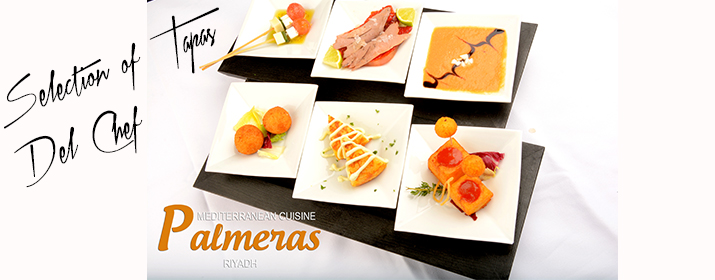
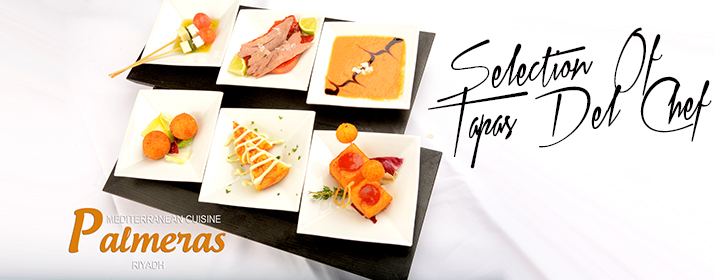
images changes.. text change.. IE7 compatible

diff --git a/css/style.css b/css/style.css
@@ -1,3 +1,6 @@
+header, nav, section, article, aside, footer, hgroup {
+    display: block;
+}
 @font-face {
 	font-family:'Xtreem_Fat_Demo';
 	src:url(../fonts/XtreemFat_Demo.eot);

diff --git a/left_menu.php b/left_menu.php
@@ -12,14 +12,8 @@
             <li><a href="javascript:void(0)" onClick="left_menu_data.update_right_section('sopa_del_dia')"  class="menu_active">Sopa Del Dia</a></li>
         </ul>
         <ul>
-            <li>TAPAS</li>
-            <li><a href="javascript:void(0)" onClick="left_menu_data.update_right_section('just_a_second')">Just a Second</a></li>
-            <li><a href="javascript:void(0" onClick="left_menu_data.update_right_section('be_careful_spicy')">Be Careful Spicy</a></li>
-            <li><a href="javascript:void(0" onClick="left_menu_data.update_right_section('for_sangria')">For Sangria</a></li>
-            <li><a href="javascript:void(0" onClick="left_menu_data.update_right_section('crispy_bite')">Crispy Bite</a></li>
-        </ul>
-        <ul>
             <li>APPETIZERS</li>
+            <li><a href="javascript:void(0)" onClick="left_menu_data.update_right_section('selection_of_tapas_del_chef')" >Selection of Tapas  Del Chef</a></li>
             <li><a href="javascript:void(0" onClick="left_menu_data.update_right_section('palmeras_salad')">Palmeras Salad</a></li>
             <li><a href="javascript:void(0" onClick="left_menu_data.update_right_section('spanish_classic_salmorejo')">Spanish Classic Salmorejo</a></li>
             <li><a href="javascript:void(0" onClick="left_menu_data.update_right_section('tabla_de_queso')">Tabla De Queso</a></li>
@@ -96,6 +90,13 @@
             <li><a href="javascript:void(0" onClick="left_menu_data.update_right_section('you_like_mozzarella')">You like Mozzarella?</a></li>
             <li><a href="javascript:void(0" onClick="left_menu_data.update_right_section('like_in_spain')">Like in Spain</a></li>
             <li><a href="javascript:void(0" onClick="left_menu_data.update_right_section('something_new')">Something New</a></li>
+        </ul>
+        <ul>
+            <li>TAPAS</li>
+            <li><a href="javascript:void(0)" onClick="left_menu_data.update_right_section('just_a_second')">Just a Second</a></li>
+            <li><a href="javascript:void(0" onClick="left_menu_data.update_right_section('be_careful_spicy')">Be Careful Spicy</a></li>
+            <li><a href="javascript:void(0" onClick="left_menu_data.update_right_section('for_sangria')">For Sangria</a></li>
+            <li><a href="javascript:void(0" onClick="left_menu_data.update_right_section('crispy_bite')">Crispy Bite</a></li>
         </ul>
          <span>Palmeras Drink List</span>
         <ul>

diff --git a/menu_pages_info.php b/menu_pages_info.php
@@ -14,6 +14,9 @@
 		sopa_del_dia_img : 'images/soup_1.png',
 		sopa_del_dia_contents : '<p class="main_p">Two selection from our soup of the day</p><h3>Cream Soup</h3><p>Cream Soups are thickened with béchamel sauce and veloutés are thickened with eggs, butter and cream.</p><h3>Clear Soup</h3><p>Soothing clear soups are made with flavorful meats, vegetables and broths as well as grain cereals.</p>',
 		
+		selection_of_tapas_del_chef_img : 'images/selection_of_tapas_del_chef.jpg',
+		selection_of_tapas_del_chef_contents : '<h3>Selection of Tapas Del Chef</h3><p>Petite variety of tapas from our appetizers.</p>',
+		
 		just_a_second_img : "images/just_a_second.jpg",
 		just_a_second_contents : '<h3>Just a Second</h3><p>Fresh steamed spinach hank topped with toasted cheese, fresh cherry and black olives, laid on crispy potato bed, dressed with extra virgin olive oil</p>',
 		
@@ -152,7 +155,7 @@
 		tarta_de_mousse_de_chocolate_img : "images/tarta_de_mouse_de_chocolat.jpg",
 		tarta_de_mousse_de_chocolate_contents : '<h3>Tarta De Mouse De Chocolat</h3><p>Cream of pure homemade chocolate cake with a mirror of vanilla and touch of mint.</p>',
 		
-		la_cerveza_despana_img : "images/soup_1.png",
+		la_cerveza_despana_img : "images/la_cervesa_de_espana.jpg",
 		la_cerveza_despana_contents : '<h3>La Cerveza Despana</h3><p>Mango and coco sorbet.</p>',
 		
 		fresh_fruits_assortment_img : "images/fresh_fruits_assortment.jpg",

diff --git a/book-table.php b/book-table.php
@@ -16,6 +16,17 @@
 <script src="js/jquery-1.11.0.min.js"></script>
 <script type="text/javascript" src="js/jquery.slimscroll.js"></script>
 <script src="js/jquery.loading-indicator.min.js"></script>
+
+        <script>
+        document.createElement('header');
+        document.createElement('nav');
+        document.createElement('section');
+        document.createElement('article');
+        document.createElement('aside');
+        document.createElement('footer');
+        document.createElement('hgroup');
+        </script>
+    </head>
 </head>
 <body>
 <div id="wraper">
